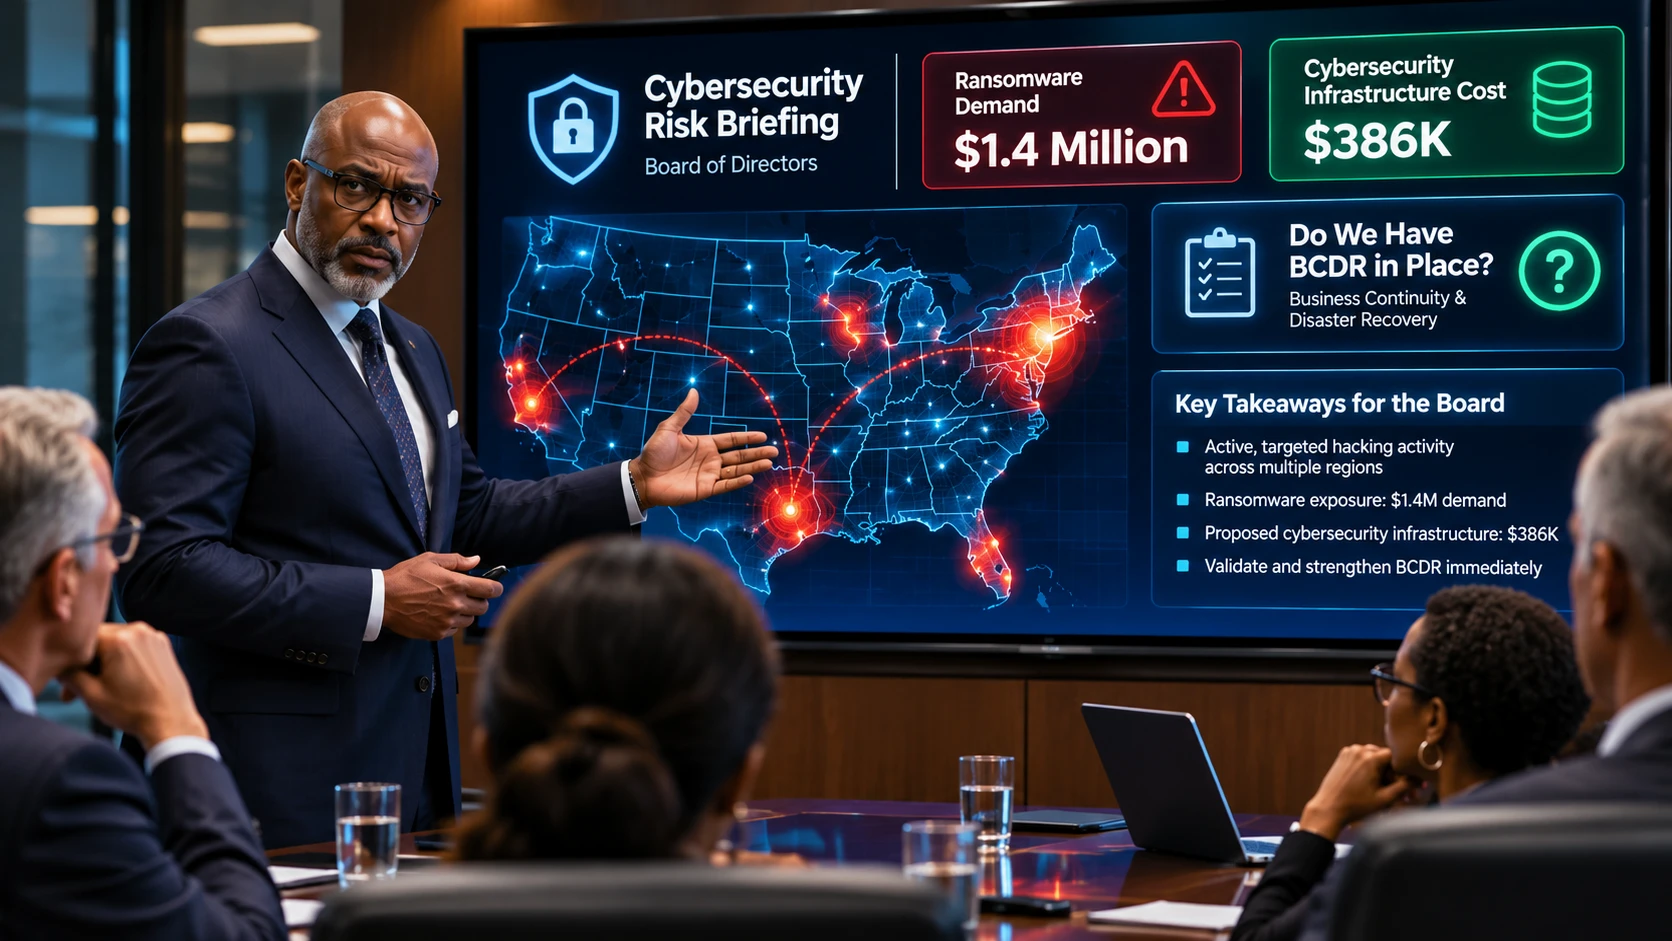
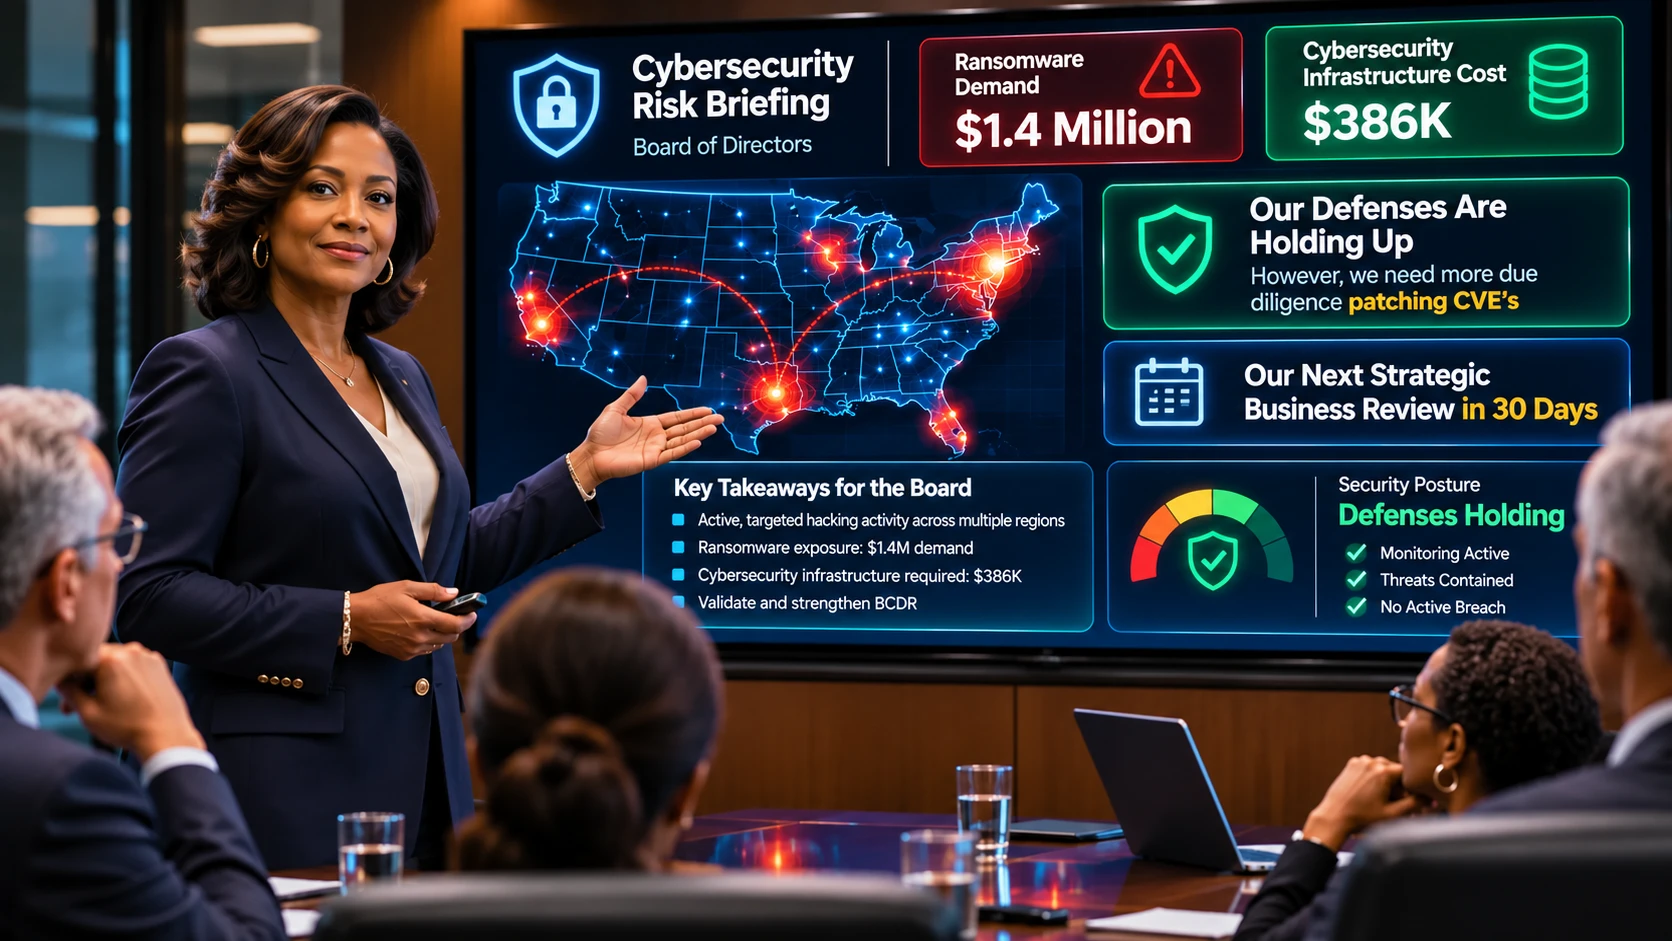
Replace Board briefing image on home page
Claude-Session: https://claude.ai/code/session_012C29drNjVikeZzjENzuj4z

diff --git a/src/app/page.tsx b/src/app/page.tsx
@@ -62,7 +62,7 @@ export default function Home() {
         <p className="mt-8 max-w-3xl text-lg leading-relaxed text-slate-ink">A list of two hundred findings does not tell a CEO what to approve, a CFO what to fund, or a Board what to oversee. <strong className="text-navy-900">Your Board deserves answers, not technical reports.</strong></p>
         <figure className="mt-14">
           <Image src="/brand/board-briefing.webp" width={1672} height={941} sizes="(min-width: 1216px) 1216px, 100vw" className="h-auto w-full rounded-2xl shadow-[0_30px_80px_-30px_rgba(0,0,0,.45)]"
-            alt="An executive presents a cybersecurity risk briefing to a Board of Directors, with a screen showing a ransomware exposure figure, a proposed infrastructure cost, a map of targeted regions, a question about business continuity and disaster recovery, and key takeaways." />
+            alt="An executive presents a cybersecurity risk briefing to a Board of Directors. The screen shows a ransomware exposure figure, a proposed infrastructure cost, a map of targeted regions, a security posture summary, the date of the next strategic business review, and key takeaways for the Board." />
           <figcaption className="mt-3 text-sm text-slate-ink">Illustrative Board briefing scenario. Figures shown are examples for illustration, not client data or industry statistics.</figcaption>
         </figure>
       </Section>
